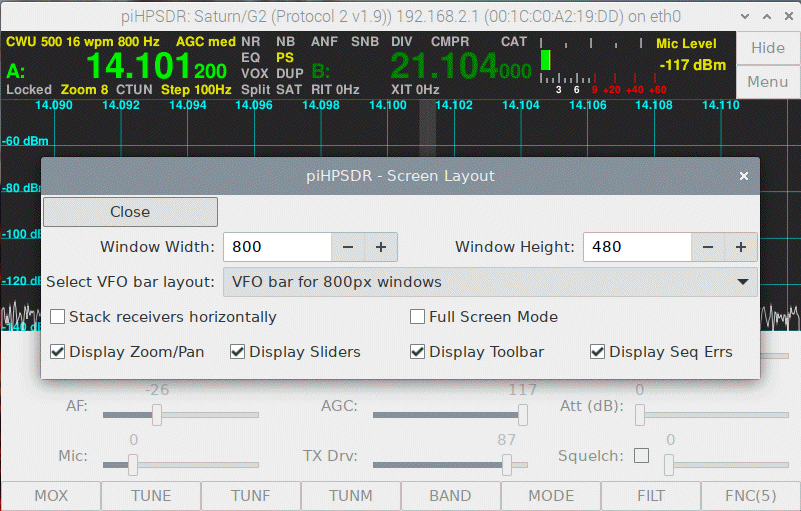
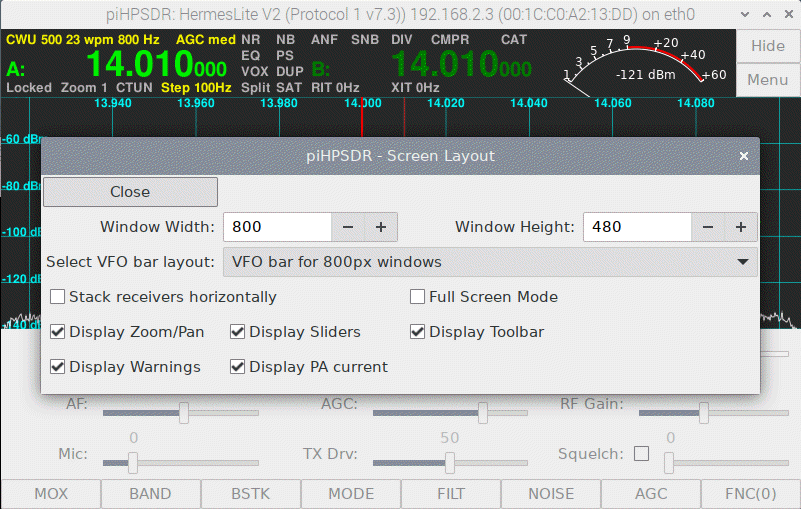
Increased number of memory slots from 5 to 10.

diff --git a/release/LatexManual/piHPSDR-Manual.tex b/release/LatexManual/piHPSDR-Manual.tex
@@ -1255,19 +1255,30 @@ determined by the width and height chosen above.
  this then serves as an indication which function is associtated with each of
  the 8 push buttone immediately below the screen.
 
-\rett{Display Seq Errs} All data packets from the radio to the PC contain
-a sequence number that is increased  for each packet sent. piHPSDR
-checks for each incoming data packet whether the sequence number is
-exactly larger by 1 than the number of the previous packet. If this is not
-the case, this is a \textit{sequence error}. Sequence errors may be caused
-by loosing packets on the way from the radio to the computer, or
-(this is what is usually the reason) packets lost within the computer due
-to the computer being busy with something else (e.g. writing to disk).
- If the \rett{Display Seq Errs} is checked, a red
-,,Sequence error'' message appears in the panel of the active receiver for two seconds.
-Sequence errors during RX often cause cracks in the RX audio. Unless this
-happens regularly, it is no reason to worry.
+\rett{Display Warnings} There are several non-fatal conditions that can
+be displayed either on the panadapter of the first receiver or, in non-duplex
+mode, on the TX panadapter. Normally these warnings are no reason to worry
+if you see them  only occasionally. These conditions are
 
+\textbf{Sequence Error}. Packets from the radio arrive in the wrong order, or packets
+are missing. If this occurs frequently, check the connection between the radio and
+the host computer.
+
+\textbf{ADC overload}. The RF input level is too high for one of the analog-to-digital
+converters. If you see this, increase attenuation in the RF front end.
+
+\textbf{TX FIFO underrun/overrun} The TX IQ data packets sent to the radio while transmitting
+either arrive too fast or too slow, such that the first-in/first-out queue of TX samples
+inside the FPGA of the radio either overflows or drains.
+
+\textbf{High SWR} During TX, an SWR above the SWR threshold has been detected. If this occurs
+frequentyl, check your antenna. The SWR threshold (default: 3.0) can be set in the
+\bltt{TX} menu.
+
+\rett{Display PA current} If this is checked, the PA supply voltage and the PA current
+are shown while transmitting. This data is only available for Orion-II and SATURN boards
+(ANAN-7000/8000 and ANAN-G2 and the HermesLite-II).
+ For the HermesLite-II, the PA temperature and the PA current are shown.
 %%%%%%%%%%%%%%%%%%%%%%%%%%%%%%%%%%%%%%%%%%%%%%%%%%%%%%%%%%%%%%%%%%%%%%%%%%%%%%%%%%%%%%%%%%%%%%%%%%%%%%%%%%%%
 \section{The \texttt{Display} Menu}
 
@@ -1635,18 +1646,17 @@ and equalizer settings, and TX compressor settings
  to CWL/CWU where you will normally use different settings compared to both USB/LSB and DIGU.
 
 %%%%%%%%%%%%%%%%%%%%%%%%%%%%%%%%%%%%%%%%%%%%%%%%%%%%%%%%%%%%%%%%%%%%%%%%%%%%%%%%%%%%%%%%%%%%%%%%%%%%%%%%%%%%
-\clearpage
 \section{The \texttt{Memory}  menu}
 
-The \bltt{Memory} menu gives you access to five memory slots. The menu is shown in Fig. \ref{fig:MemMenu}.
+The \bltt{Memory} menu gives you access to ten memory slots. The menu is shown in Fig. \ref{fig:MemMenu}.
 You can store the current
 operating frequency  of the active receiver in any of the five slots by clicking a
-button in the leftmost columns (e.g. "Store M2"), or you can restore
-data from any slot. Parameters stored in the memory slot are
-the frequency and the mode, the filter used, the deviation, and the CTCSS setting.
-The right column shows the frequency, the mode,
-and filter currently stored in the memory slot and clicking on of the five buttons there will restore
-the data. So if you have some often used frequencies (e.g. for a net), the
+button in the left column (e.g. "Store M2"), or you can restore
+data from any slot by clicking on one of the entries in the right column
+which shows the frequency, mode and filter width stored in that slot.
+In addition (not shown in the right column) the FM deviation and the CTCSS setting are stored
+in the memory slots.
+ So if you have some often used frequencies (e.g. for a net), the
 \bltt{Memory} menu allows you to become QRV there with only few mouse clicks.
 
  \begin{figure}[ht]
@@ -2137,6 +2147,10 @@ and looks like in Fig. \ref{fig:PAMenuWatt}.
 \caption{The PA menu, Watt meter calibration}
 \label{fig:PAMenuWatt}
 \end{figure}
+Note that for calibrating the Watt meter as well, 
+ \rett{Tune use Drive} in the \bltt{TX} menu must be checked
+ to allow for high RF output
+power while TUNEing.
 
 You have 10 Watt values from $\frac{1}{10}$ to the full nominal power. Initially,
 the values of the spin buttons beside the Watt ratings have the nominal value.
@@ -2148,7 +2162,8 @@ interpolation between two adjacent calibration values.
 
 Start with resetting the value by hitting the \rett{Reset} button. Then, move the
 drive slider to 100 (the unit of the drive slider is per cent, not Watt!) and hit
-TUNE. After the PA calibration described above, your (external) Watt meter should
+\texttt{TUNE} in the toolbar.
+ After the PA calibration described above, your (external) Watt meter should
 show the nominal PA output power (e.g. 100 Watt for an ANAN-7000). Now look at the
 forward power reported in the meter section (top right of the piHPSDR window).
 Suppose you read "250 W" there although your output is 200 Watt. Then simply
@@ -2163,16 +2178,18 @@ calibration value of the highest power. For example, if you have entered 250 in
 the 200W spin button, then the value in the 100W spin button will read 125. So in a
 single shot, you have roughly calibrated the Watt meter.
 
-A finer calibration only makes sense if you have a highly accurate Watt meter. If you do,
+A finer calibration only makes sense if you have a highly accurate Watt meter, since
+the (uncalibrated) reading in piHPSDR may actually be more accurate than your
+Watt meter. Using your highly accurate Watt meter,
 you can now move the drive slider until your Watt meter exactly reads one of the
 lower power values, and use the corresponding spin button to change the calibration
-until piHPSDR exactly reports the correct power.
-
-The procedures is the virtually the same if our nominal output power is different.
+until piHPSDR exactly reports the correct power. 
+The procedures is  virtually the same if our nominal output power is different.
 The only complication arises if your radio has a nominal power that is not in the menu,
 for example 150 Watt.
 
-In this case, choose 200W in the top line of the PA menu. TUNE and move the drive
+In this case, choose 200W (the next largest value)
+in the top line of the PA menu. TUNE and move the drive
 slider until your Watt meter reads the largest value possible that occurs
 in the Watt meter calibration menu (in this example, it is 140W). Adjust the
 140W spin button until piHPSDR reports 140 Watt. Then go to full power
@@ -2351,9 +2368,12 @@ Many radios have a connection for a paddle or at least for
 a straight key, and contain firmware to do CW. CW handling by
 the radio firmware is enabled by the \rett{CW handled in Radio}
 check box. If unchecked, CW (that is, generating and forming
-the RF pulses) is done by piHPSDR, which implies that
+the RF pulses) is done by piHPSDR. For most radios, you can
+still use the Morse paddle connected to the radio since the
+radio sends the dash/dot paddle press events to the host
+computer, but it is more versatile to connect
 a Morse paddle, straight key or an external keyer is connected
-to the host compute (see Appendix \ref{sec:ConnectCW}).
+to the host computer (see Appendix \ref{sec:ConnectCW}).
 
 \rett{CW Speed}. Here the speed (in wpm) can be chosen. If CW is
 handled in the Radio, the value is simply sent to the radio firmware,

diff --git a/src/actions.c b/src/actions.c
@@ -293,10 +293,12 @@ void schedule_action(enum ACTION action, enum ACTION_MODE mode, gint val) {
     // which take care of PTT themselves.
     //
     if (mode == PRESSED && (cw_keyer_internal == 0 || CAT_cw_is_active)) {
+      gpio_set_cw(1);
       cw_key_down = 960000; // max. 20 sec to protect hardware
       cw_key_up = 0;
       cw_key_hit = 1;
     } else {
+      gpio_set_cw(0);
       cw_key_down = 0;
       cw_key_up = 0;
     }

diff --git a/src/radio.c b/src/radio.c
@@ -1786,7 +1786,6 @@ static void rxtx(int state) {
 void setMox(int state) {
   if (!can_transmit) { return; }
 
-  // SOAPY and no local mic: continue! e.g. for doing CW.
   vox_cancel();  // remove time-out
 
   if (mox != state) {

diff --git a/src/transmitter.c b/src/transmitter.c
@@ -490,6 +490,8 @@ static gboolean update_display(gpointer data) {
 
     case SOAPYSDR_PROTOCOL:
     default:
+      fwd_average = 0;
+      rev_average = 0;
       tx->fwd = 0.0;
       tx->exciter = 0.0;
       tx->rev = 0.0;

diff --git a/src/store_menu.h b/src/store_menu.h
@@ -15,5 +15,5 @@
 *   along with this program.  If not, see <https://www.gnu.org/licenses/>.
 *
 */
-#define NUM_OF_MEMORYS 5
+#define NUM_OF_MEMORYS 10
 extern void store_menu(GtkWidget *parent);
